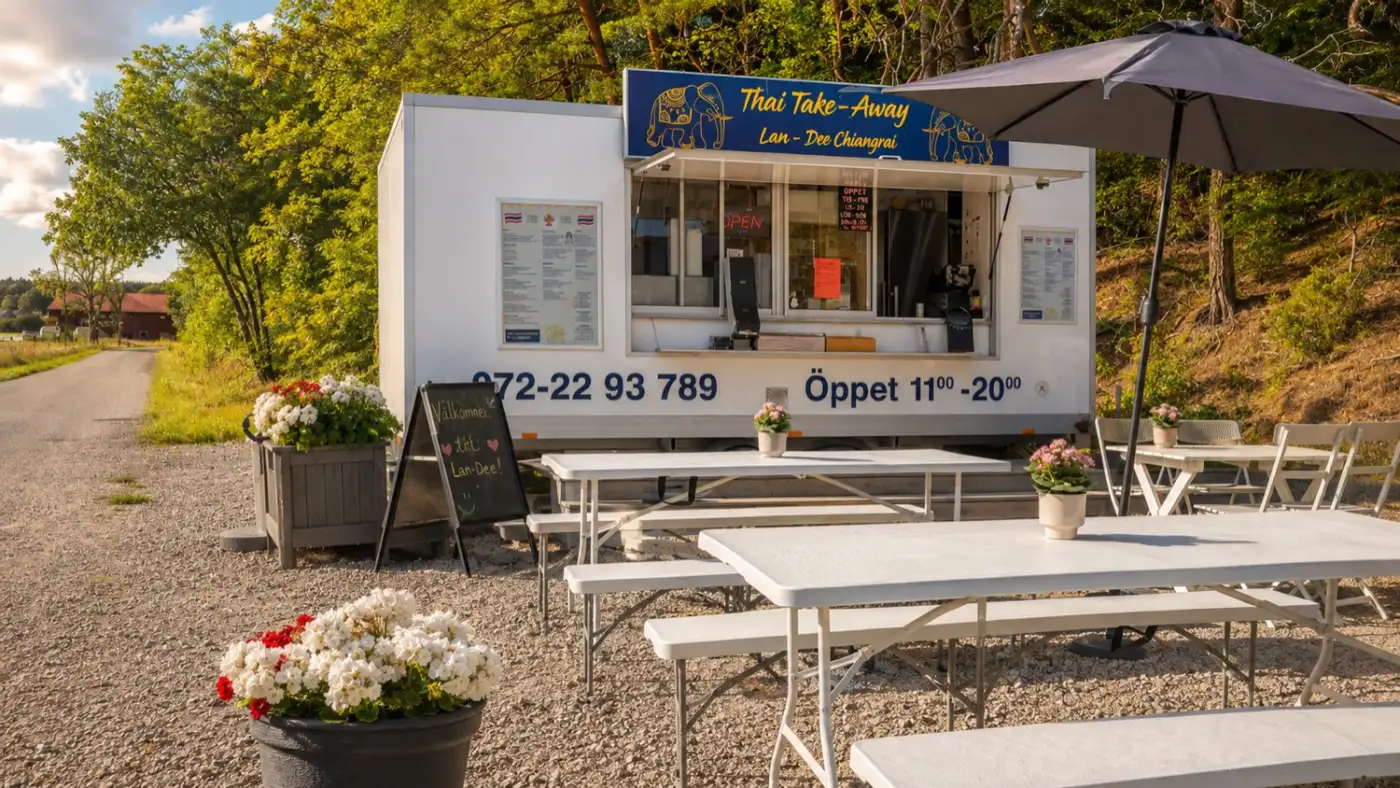
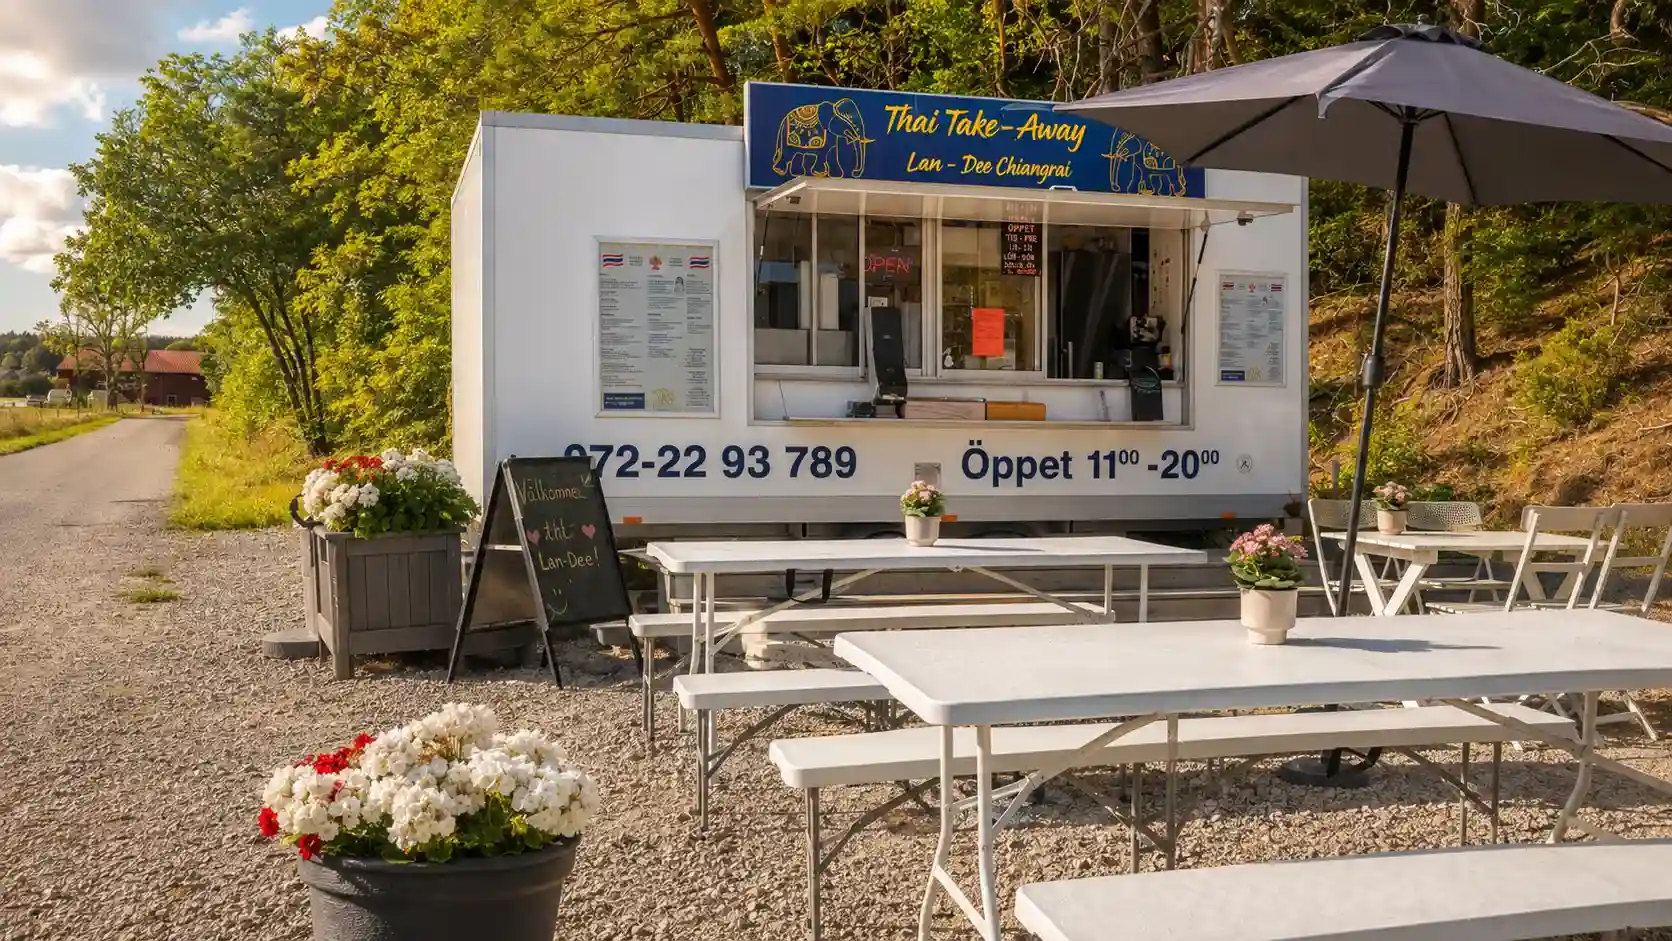
Optimerad hero-webp (Conversion Tools) + srcset-deskriptor
- assets/hero-local.webp: 1400x787/152 kB -> 1672x941/133 kB (skarpare och mindre).
- srcset/imagesrcset-deskriptor 1400w -> 1672w i index.html och Hero.jsx så
  webbläsaren väljer rätt upplösning. JPG-fallback och og:image oförändrade.
- dist/app.js ombyggd, ?v=8 -> ?v=9.

Claude-Session: https://claude.ai/code/session_01GJLSu4q2tpTZbpsXdWdUDx

diff --git a/index.html b/index.html
@@ -182,7 +182,7 @@
 <!-- Resurstips: värm upp anslutningar och prioritera hero-bilden (LCP). -->
 <link rel="preconnect" href="https://fonts.googleapis.com" />
 <link rel="preconnect" href="https://fonts.gstatic.com" crossorigin />
-<link rel="preload" as="image" type="image/webp" href="assets/hero-local.webp" imagesrcset="assets/hero-local-900.webp 900w, assets/hero-local.webp 1400w" imagesizes="100vw" fetchpriority="high" />
+<link rel="preload" as="image" type="image/webp" href="assets/hero-local.webp" imagesrcset="assets/hero-local-900.webp 900w, assets/hero-local.webp 1672w" imagesizes="100vw" fetchpriority="high" />
 <!-- Fonter laddas direkt (parallellt) istället för via @import-kedja i CSS. -->
 <link rel="stylesheet" href="https://fonts.googleapis.com/css2?family=Newsreader:ital,opsz,wght@0,6..72,400;0,6..72,500;0,6..72,600;0,6..72,700;1,6..72,400;1,6..72,500;1,6..72,600&family=Barlow:ital,wght@0,400;0,500;0,600;0,700;1,400;1,500&display=swap" />
 <link rel="stylesheet" href="styles.css?v=4" />
@@ -336,9 +336,9 @@
      webbläsaren. dist/app.js byggs av ./build.sh från .jsx-källorna. -->
 <script defer src="./vendor/react.production.min.js"></script>
 <script defer src="./vendor/react-dom.production.min.js"></script>
-<script defer src="./data.js?v=8"></script>
-<script defer src="./copy.js?v=8"></script>
-<script defer src="./dist/app.js?v=8"></script>
+<script defer src="./data.js?v=9"></script>
+<script defer src="./copy.js?v=9"></script>
+<script defer src="./dist/app.js?v=9"></script>
 </head>
 <body>
 <!-- Skelett: syns bara de millisekunder det tar att kompilera skärmarna, så att
@@ -424,7 +424,7 @@
   <!-- Skelett: helbilds-hero med tunn logotypsrad, matchar den färdiga sidan. -->
   <div style="position:relative;min-height:100vh;min-height:100dvh;background:var(--navy-900);overflow:hidden">
     <picture>
-      <source type="image/webp" srcset="assets/hero-local-900.webp 900w, assets/hero-local.webp 1400w" sizes="100vw" />
+      <source type="image/webp" srcset="assets/hero-local-900.webp 900w, assets/hero-local.webp 1672w" sizes="100vw" />
       <img src="assets/hero-local.jpg" srcset="assets/hero-local-900.jpg 900w, assets/hero-local.jpg 1400w" sizes="100vw" width="1400" height="787" alt="" fetchpriority="high" decoding="async" style="position:absolute;inset:0;width:100%;height:100%;object-fit:cover;object-position:64% 50%" />
     </picture>
     <div style="position:absolute;inset:0;background:linear-gradient(90deg,rgba(6,23,53,0.8) 0%,rgba(6,23,53,0.2) 45%,rgba(6,23,53,0) 75%)"></div>

diff --git a/dist/app.js b/dist/app.js
@@ -1604,7 +1604,7 @@ LD_DS["Notice"] = function (React, __DS) {
       }
     }, /*#__PURE__*/React.createElement("picture", null, /*#__PURE__*/React.createElement("source", {
       type: "image/webp",
-      srcSet: "assets/hero-local-900.webp 900w, assets/hero-local.webp 1400w",
+      srcSet: "assets/hero-local-900.webp 900w, assets/hero-local.webp 1672w",
       sizes: "100vw"
     }), /*#__PURE__*/React.createElement("img", {
       src: "assets/hero-local.jpg",

diff --git a/Hero.jsx b/Hero.jsx
@@ -21,7 +21,7 @@ window.Hero = function Hero({ t, lang, place, openState }) {
       <picture>
         <source
           type="image/webp"
-          srcSet="assets/hero-local-900.webp 900w, assets/hero-local.webp 1400w"
+          srcSet="assets/hero-local-900.webp 900w, assets/hero-local.webp 1672w"
           sizes="100vw"
         />
         <img
